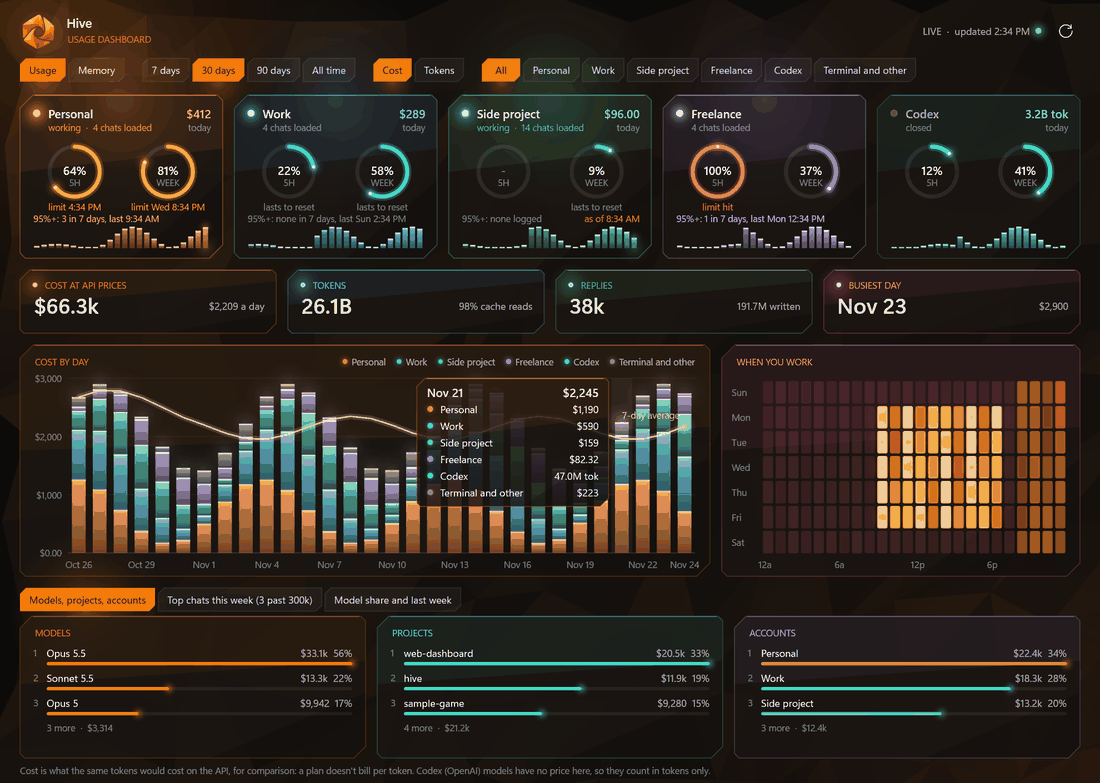
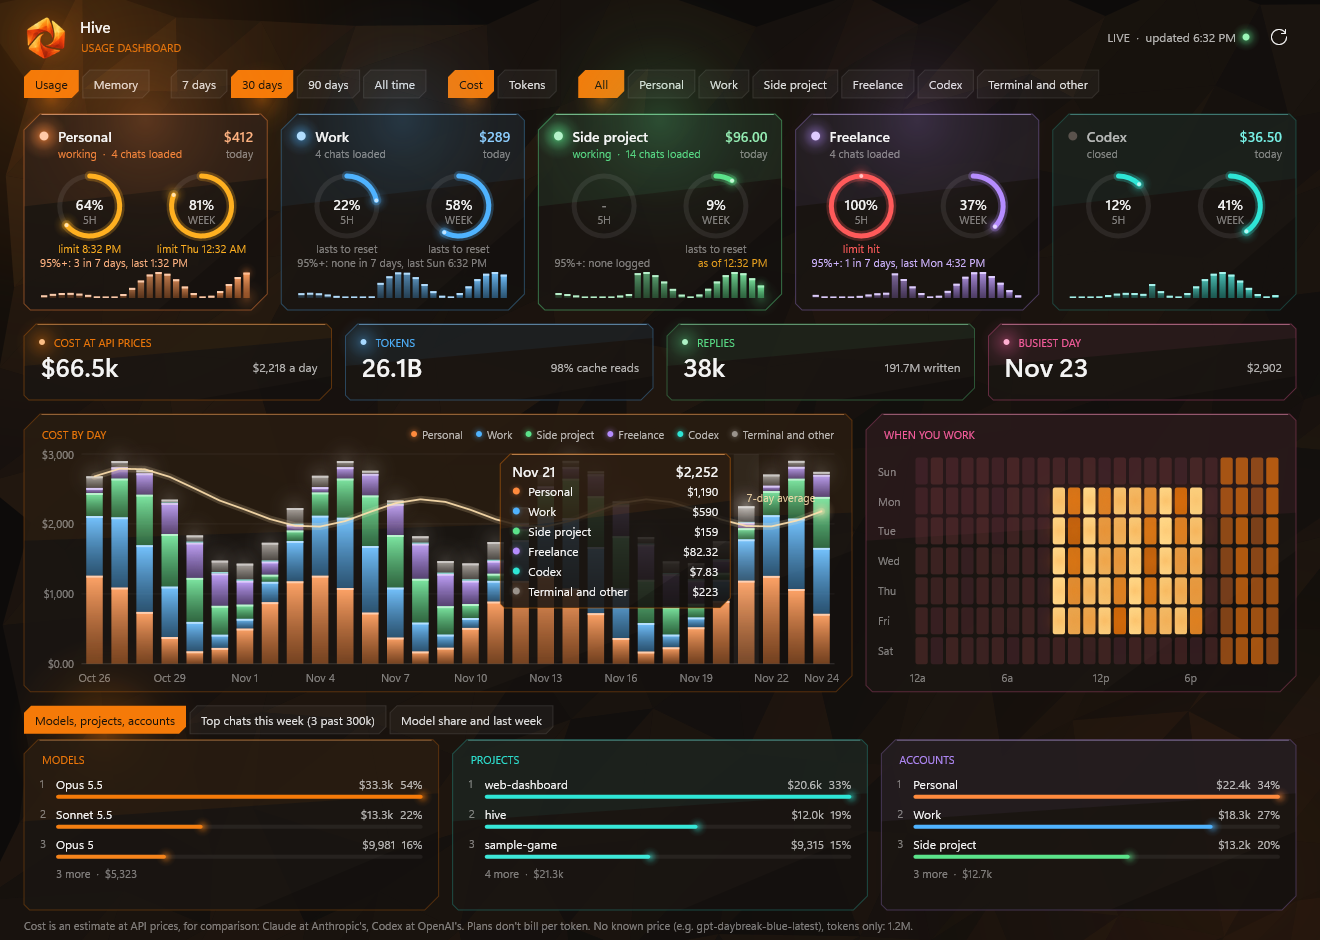
Estimate Codex token cost at OpenAI API prices
Codex models now count in the dashboard cost at OpenAI's published API rates. Models with no published price stay tokens-only.

diff --git a/src/ui/dash.rs b/src/ui/dash.rs
@@ -1163,8 +1163,8 @@ impl Dash {
             return;
         }
         let note = format!(
-            "Cost is what the same tokens would cost on the API, for comparison: a plan doesn't bill per token. Codex (OpenAI) models have no price here, so they count in tokens only.{}",
-            if s.unpriced > 0 { format!(" Unpriced: {} tokens.", count(s.unpriced)) } else { String::new() }
+            "Cost is an estimate at API prices, for comparison: Claude at Anthropic's, Codex at OpenAI's. Plans don't bill per token.{}",
+            if s.unpriced > 0 { format!(" No known price (e.g. gpt-daybreak-blue-latest), tokens only: {}.", count(s.unpriced)) } else { String::new() }
         );
         p.text(&note, &p.g.tiny, R::new(x0, h - 24.0, x1, h - 6.0), t.text3, DWRITE_TEXT_ALIGNMENT_LEADING);
     }
@@ -1636,7 +1636,7 @@ impl Dash {
         ink.gem(r, 14.0, c, 0.2);
         p.text(title, &p.g.tiny, R::new(r.l + 18.0, r.t + 12.0, r.r - 16.0, r.t + 28.0), alpha(c, 0.95), DWRITE_TEXT_ALIGNMENT_LEADING);
         let m = self.metric;
-        // By cost, tokens decide among the unpriced (Codex).
+        // By cost, tokens decide among the unpriced.
         let mut rows: Vec<(&String, f64, f64)> = map.iter().map(|(k, a)| (k, value(m, a), a.tokens.total() as f64)).filter(|(_, v, tk)| *v > 0.0 || *tk > 0.0).collect();
         rows.sort_by(|a, b| b.1.total_cmp(&a.1).then(b.2.total_cmp(&a.2)));
         let total: f64 = rows.iter().map(|x| x.1).sum();
@@ -2928,7 +2928,7 @@ pub fn render_sample(scale: f32, view: usize) -> Option<(i32, i32, Vec<u8>)> {
         for (k, a) in accounts.iter().enumerate() {
             let wave = ((i as f64 * 0.7 + k as f64).sin() + 1.3) * (5 - k.min(4)) as f64;
             let t = stats::Tokens { input: 1000, w5: 0, w1h: 2_000_000, read: (wave * 40e6) as u64, output: (wave * 300e3) as u64, replies: (wave * 60.0) as u64 };
-            let cost = if a == "Codex" { 0.0 } else { wave * 110.0 };
+            let cost = if a == "Codex" { stats::cost("gpt-6.2-sol", false, &stats::Tokens { input: t.input, w5: 0, w1h: 0, read: t.read, output: t.output, replies: 0 }).unwrap_or(0.0) } else { wave * 110.0 };
             let e = s.by_day.entry(day).or_default().entry(a.clone()).or_default();
             e.tokens.add(&t);
             e.cost += cost;
@@ -2946,6 +2946,7 @@ pub fn render_sample(scale: f32, view: usize) -> Option<(i32, i32, Vec<u8>)> {
         let total = 1_000_000_000.0;
         s.by_day_family.insert(*day, [(total * opus) as u64, (total * rest * 0.62) as u64, (total * rest * 0.14) as u64, (total * rest * 0.14) as u64, (total * rest * 0.10) as u64]);
     }
+    s.unpriced = 1_250_000;
     let week: std::collections::BTreeMap<String, [u64; 5]> = [
         ("Personal", [5_200_000_000, 2_900_000_000, 90_000_000, 0, 0]),
         ("Work", [4_100_000_000, 1_300_000_000, 0, 160_000_000, 0]),
@@ -2962,7 +2963,7 @@ pub fn render_sample(scale: f32, view: usize) -> Option<(i32, i32, Vec<u8>)> {
             a.cost = work * (1.0 + ((d * 24 + hr) as f64 * 1.3).sin().abs()) * 40.0;
         }
     }
-    for (mdl, c) in [("Opus 5.5", 0.5), ("Sonnet 5.5", 0.2), ("Opus 5", 0.15), ("GPT-6.1 Sol", 0.0), ("Fable 5.1", 0.04), ("Haiku 5.5", 0.01)] {
+    for (mdl, c) in [("Opus 5.5", 0.5), ("Sonnet 5.5", 0.2), ("Opus 5", 0.15), ("GPT-6.1 Sol", 0.03), ("Fable 5.1", 0.04), ("Haiku 5.5", 0.01)] {
         s.by_model.insert(mdl.into(), Agg { tokens: stats::Tokens { input: 1, w5: 0, w1h: 0, read: 5_000_000_000, output: 0, replies: 1 }, cost: s.total.cost * c });
     }
     for (pj, c) in [("web-dashboard", 0.31), ("hive", 0.18), ("sample-game", 0.14), ("mobile-app", 0.11), ("docs-site", 0.08), ("asset-library", 0.07), ("reporting", 0.06)] {
@@ -2981,7 +2982,7 @@ pub fn render_sample(scale: f32, view: usize) -> Option<(i32, i32, Vec<u8>)> {
         Pod { name: "Work".into(), color: color_of(&accounts, "Work"), codex: false, open: true, chats: 4, busy: 0.0, five: Some(22), five_fc: Forecast::Lasts, week: Some(58), week_fc: Forecast::Lasts, as_of: today, past95: 0, last95: Some(today - 9 * 24 * hh), hours: hours(1), today: Agg { tokens: stats::Tokens::default(), cost: 288.5 } },
         Pod { name: "Side project".into(), color: color_of(&accounts, "Side project"), codex: false, open: true, chats: 14, busy: 0.3, five: None, five_fc: Forecast::Unknown, week: Some(9), week_fc: Forecast::Lasts, as_of: today - 6 * hh, past95: 0, last95: None, hours: hours(2), today: Agg { tokens: stats::Tokens::default(), cost: 96.0 } },
         Pod { name: "Freelance".into(), color: color_of(&accounts, "Freelance"), codex: false, open: true, chats: 4, busy: 0.0, five: Some(100), five_fc: Forecast::Reached, week: Some(37), week_fc: Forecast::Unknown, as_of: today, past95: 1, last95: Some(today - 26 * hh), hours: hours(3), today: Agg::default() },
-        Pod { name: "Codex".into(), color: color_of(&accounts, "Codex"), codex: true, open: false, chats: 0, busy: 0.0, five: Some(12), five_fc: Forecast::Unknown, week: Some(41), week_fc: Forecast::Unknown, as_of: 0, past95: 0, last95: None, hours: hours(4), today: Agg { tokens: stats::Tokens { input: 0, w5: 0, w1h: 0, read: 3_200_000_000, output: 23_000_000, replies: 1 }, cost: 0.0 } },
+        Pod { name: "Codex".into(), color: color_of(&accounts, "Codex"), codex: true, open: false, chats: 0, busy: 0.0, five: Some(12), five_fc: Forecast::Unknown, week: Some(41), week_fc: Forecast::Unknown, as_of: 0, past95: 0, last95: None, hours: hours(4), today: Agg { tokens: stats::Tokens { input: 0, w5: 0, w1h: 0, read: 3_200_000_000, output: 23_000_000, replies: 1 }, cost: 36.5 } },
     ];
     let d = Dash {
         hwnd: null_mut(),

diff --git a/src/stats.rs b/src/stats.rs
@@ -21,10 +21,22 @@ use serde::{Deserialize, Serialize};
 
 // ---- prices -----------------------------------------------------------------
 
-/// API prices per million tokens: (input, output, cache read). Cache writes cost
+/// API prices per million tokens: (input, output, cache read). Claude cache writes cost
 /// 1.25x input (5-minute) and 2x input (1-hour). From the claude-api reference,
-/// 2026-10-06; the 4.1-and-older Opus rate is from memory.
+/// 2026-10-06; the 4.1-and-older Opus rate is from memory. OpenAI rows are in `OPENAI`.
 fn price(model: &str) -> Option<(f64, f64, f64)> {
+    // OpenAI (Codex) standard tier, short context, from developers.openai.com/api/docs/pricing
+    // (platform.openai.com/docs/pricing redirects there), fetched 2026-11-24: (input, output,
+    // cached input). gpt-daybreak-blue-latest is not on that page, so it stays unpriced.
+    const OPENAI: [(&str, (f64, f64, f64)); 7] = [
+        ("gpt-6.2-astra", (8.0, 40.0, 0.40)),
+        ("gpt-6.2-sol", (2.0, 10.0, 0.10)),
+        ("gpt-6.1-sol", (2.0, 10.0, 0.10)),
+        ("gpt-6.1-terra", (1.0, 5.0, 0.05)),
+        ("gpt-6-astra", (10.0, 50.0, 1.0)),
+        ("gpt-6-sol", (2.0, 10.0, 0.20)),
+        ("gpt-6-luna", (0.10, 0.50, 0.01)),
+    ];
     const TABLE: [(&str, (f64, f64, f64)); 18] = [
         ("claude-fable-5", (10.0, 50.0, 0.25)),
         ("claude-mythos-5", (10.0, 50.0, 0.25)),
@@ -46,14 +58,16 @@ fn price(model: &str) -> Option<(f64, f64, f64)> {
         ("claude-3-5-haiku", (0.80, 4.0, 0.08)),
     ];
     // Longest matching prefix: "claude-opus-5-5" before "claude-opus-5".
-    TABLE.iter().filter(|(p, _)| model.starts_with(p)).max_by_key(|(p, _)| p.len()).map(|(_, v)| *v)
+    TABLE.iter().chain(OPENAI.iter()).filter(|(p, _)| model.starts_with(p)).max_by_key(|(p, _)| p.len()).map(|(_, v)| *v)
 }
 
 /// Dollars for these tokens on this model; None when the model has no known price.
 pub fn cost(model: &str, fast: bool, t: &Tokens) -> Option<f64> {
     let (i, o, r) = price(model)?;
     let m = 1e-6 * if fast { 2.0 } else { 1.0 };
-    Some(m * (t.input as f64 * i + t.w5 as f64 * i * 1.25 + t.w1h as f64 * i * 2.0 + t.read as f64 * r + t.output as f64 * o))
+    // OpenAI has no cache-write surcharge: a write is plain input.
+    let (w5, w1h) = if model.starts_with("gpt-") { (1.0, 1.0) } else { (1.25, 2.0) };
+    Some(m * (t.input as f64 * i + t.w5 as f64 * i * w5 + t.w1h as f64 * i * w1h + t.read as f64 * r + t.output as f64 * o))
 }
 
 /// A friendlier model name: "claude-opus-5-5" becomes "Opus 5.5".
@@ -1517,6 +1531,15 @@ mod tests {
         assert_eq!(price("claude-sonnet-4-5-20250929").unwrap().0, 3.0);
         assert_eq!(price("claude-fable-5-1").unwrap().0, 10.0);
         assert!(price("gpt-6").is_none());
+        assert!(price("gpt-daybreak-blue-latest").is_none());
+        assert_eq!(price("gpt-6.2-sol").unwrap(), (2.0, 10.0, 0.10));
+        assert_eq!(price("gpt-6-sol").unwrap().2, 0.20);
+        assert_eq!(price("gpt-6.2-astra").unwrap().0, 8.0);
+        assert_eq!(price("gpt-6-luna").unwrap().1, 0.50);
+        // Codex: 1M uncached input + 1M cached + 1M output on gpt-6.2-sol = 2 + 0.1 + 10.
+        let c = Tokens { input: 1_000_000, w5: 0, w1h: 0, read: 1_000_000, output: 1_000_000, replies: 1 };
+        assert!((cost("gpt-6.2-sol", false, &c).unwrap() - 12.1).abs() < 1e-9);
+        assert!(cost("gpt-daybreak-blue-latest", false, &c).is_none());
         let t = Tokens { input: 1_000_000, w5: 0, w1h: 1_000_000, read: 1_000_000, output: 1_000_000, replies: 1 };
         // 4 + 8 (1-hour write, 2x) + 0.2 + 20
         assert!((cost("claude-opus-5-5", false, &t).unwrap() - 32.2).abs() < 1e-9);

diff --git a/README.md b/README.md
@@ -20,7 +20,7 @@ Hive reads Codex's own session logs under `~/.codex/sessions`, so Codex sits in 
 
 - The Codex row shows your plan, credits, weekly usage and exact reset time. Click it to open the Codex app.
 - Codex turns that finish or need you raise the same alert cards as Claude chats.
-- Codex tokens appear in the dashboard next to Claude's. Codex models have no price in Hive, so they count in tokens only.
+- Codex tokens appear in the dashboard next to Claude's, with an estimated cost at OpenAI's API prices. A model with no published price counts in tokens only.
 - Settings > Usage can hide the Codex row, and Settings > Alerts can turn Codex alerts off.
 
 ![The usage settings tab with the Codex usage switch](docs/images/settings-usage.png)
